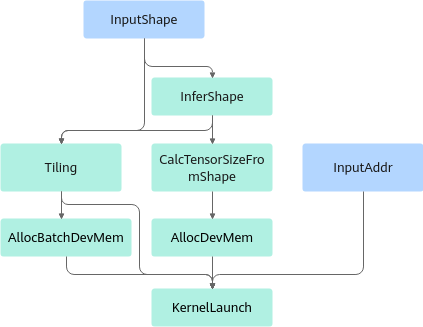
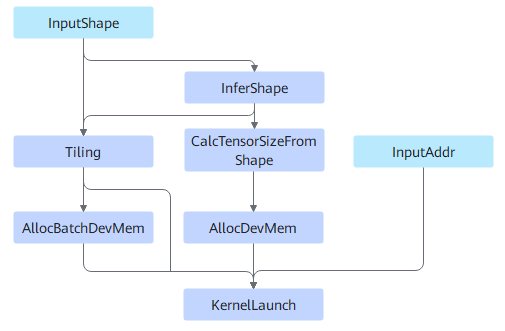
docs:执行图构图接口相关文档修改
# message auto-generated for no-merge-commit merge:
!6046 merge docs_execute_graph_api_1119 into develop

docs:执行图构图接口相关文档修改

Created-by: autumn982
Commit-by: qiuruijun
Merged-by: cann-robot
Description: # Pull Request

## 描述
本 PR 为执行图构图接口文档（`docs:执行图构图相关文档补充`，已合入 develop）的检视意见修复，共 36 个文件（+40/-41，含配图替换 1 张），全部位于 `docs/zh`，不涉及任何代码变更：

### 1. kind参数说明统一（4篇）
`EsCreateGraphBuilderWithKind`、`Graph`构造函数、`EsCGraphBuilder`构造函数、`EsGraphBuilder`构造函数的`kind`参数说明统一为：「图后端类别，取值为[C_GraphKind](https://gitcode.com/cann/metadef/blob/master/docs/zh/api/c_api/C_GraphKind.md)枚举（`ge::GraphKind`为其别名）：`C_GRAPH_COMPUTE`（计算图，取值为0）、`C_GRAPH_EXECUTE`（执行图，取值为1）」。消除原先「图类别/图后端类别」「按整型直传/取值为」「即…枚举/为其别名」等不一致表述，保留`ge::GraphKind`别名说明；删除本地头文件路径表述（「定义于`graph/c_types.h`头文件」），改为`C_GraphKind`枚举名直接链接metadef仓枚举文档；删除调用示例中路径错误的`#include "c_types.h"`（`esb_funcs.h`已传递包含，无需单独引入）。

### 2. type参数取值补全（4篇）
`EsCreateGraphInputWithDetails`、`AddGraphInput`、`AppendGraphInput`、`CreateInput`的`type`参数补充取值枚举：计算图类别下支持Data、RefData、AippData、AnyData（对应`kDataOpSet`校验）；执行图类别下支持Data、AippData、ConstData（对应`gert::IsTypeGraphInput`校验）；为空默认Data。

### 3. 约束说明格式统一（29篇）
「约束说明」仅一条时不使用列表符号，统一为段落文本；多条约束保持列表不变。覆盖Graph接口（`AddSubGraph`、`ConstructFromInputs`、`Dump`、`DumpToFile`、`FindOpByType`）、ES C接口（`EsBuildGraphAndReset`、`EsCreateVariable`、`EsCreateGraphInputWithDetails`、`EsSet*`×4）、ES C++接口（`AddGraphInput`、`AppendGraphInput`、`BuildAndReset`、`CreateInput`、`CreateVariable`、`EsCTensorHolder`/`EsTensorHolder`的`Set*`写接口×12）。

### 4. 措辞修正
[…]

diff --git a/docs/zh/user_guides/graph_dev/overview/concepts_and_principles.md b/docs/zh/user_guides/graph_dev/overview/concepts_and_principles.md
@@ -95,7 +95,7 @@ GE中的图按所处阶段和表达内容的不同，分为计算图（ComputeGr
 - **计算图（ComputeGraph）**：编译阶段看到的图，表达用户的逻辑计算语义，图中节点与用户构图时使用的算子一一对应，前文的图构建与图编译优化均基于计算图进行。
 - **执行图（ExecuteGraph）**：执行阶段看到的图。对于动态Shape模型，由于输入Tensor的Shape在执行时才能确定，无法在编译期完成整图的任务下发，GE在编译期通过Lowering机制将计算图转换为执行图。在动态Shape模型的执行图中，一个算子的下发被拆分为多个Host执行单元，每个执行单元称为Host Kernel，每个Host Kernel负责完成一项独立的运算或下发任务（如形状推导、Tiling计算、内存分配、算子下发等），执行图上的节点与Host Kernel一一对应。动态Shape模型在执行时，通过依次执行执行图上的Host Kernel完成整个图的下发。
 
-以一个单输入单输出AI Core算子为例，其在计算图与执行图中的表达如下图所示。计算图中，该算子对应一个AI Core节点；执行图中，该算子的下发被拆分为InferShape（形状推导）、Tiling（Tiling计算）、AllocMemHbm（Device内存分配）、Launch（算子下发）等多个Host Kernel，这些Host Kernel根据执行图上的顺序在Host侧依次执行。
+以一个单输入单输出AI Core算子为例，其对应的执行图如下图所示。在执行图中，该算子的下发被拆分为InferShape（形状推导）、Tiling（Tiling计算）、AllocMemHbm（Device内存分配）、Launch（算子下发）等多个Host Kernel，这些Host Kernel根据执行图上的顺序在Host侧依次执行。
 
 **图 3**  单输入单输出AI Core算子对应的执行图
 ![单输入单输出AI Core算子对应的执行图](../figures/execute_graph.png "单输入单输出AI Core算子对应的执行图")

diff --git a/docs/zh/api/graph_engine_api/cpp/ge/Graph/Graph_constructor_and_destructor.md b/docs/zh/api/graph_engine_api/cpp/ge/Graph/Graph_constructor_and_destructor.md
@@ -31,7 +31,7 @@ Graph()
 | 参数名 | 输入/输出 | 说明 |
 | --- | --- | --- |
 | name | 输入 | Graph名称，按照指定的名称构造Graph。 |
-| kind | 输入 | 图后端类别，取值为`C_GraphKind`枚举（定义于`graph/c_types.h`头文件，`ge::GraphKind`为其别名）：`C_GRAPH_COMPUTE`（计算图，取值为0）、`C_GRAPH_EXECUTE`（执行图，取值为1）。 |
+| kind | 输入 | 图后端类别，取值为[C\_GraphKind](https://gitcode.com/cann/metadef/blob/master/docs/zh/api/c_api/C_GraphKind.md)枚举（`ge::GraphKind`为其别名）：`C_GRAPH_COMPUTE`（计算图，取值为0）、`C_GRAPH_EXECUTE`（执行图，取值为1）。 |
 
 ## 返回值说明
 
@@ -42,4 +42,4 @@ Graph构造函数返回Graph类型的对象。
 - 图类别在构造期固定，Graph对象生命周期内不可变更。
 - 双参构造接口中，`name`为空指针或`kind`为非法取值（非`C_GRAPH_COMPUTE`、`C_GRAPH_EXECUTE`）时，构造出的Graph对象非法，即[IsValid](IsValid.md)返回false。
 - 按名称构造的接口（`Graph(name)`）默认创建计算图。
-- 以执行图类别构造的Graph对象，部分门面接口不支持（如[SetTargets](SetTargets.md)、[AddOp](AddOp.md)、序列化保存/加载等），详见对应接口的约束说明。
+- 以执行图类别构造的Graph对象，部分接口不支持（如[SetTargets](SetTargets.md)、[AddOp](AddOp.md)、序列化保存/加载等），详见对应接口的约束说明。

diff --git a/docs/zh/api/graph_engine_api/c/esb_funcs/EsCreateGraphInputWithDetails.md b/docs/zh/api/graph_engine_api/c/esb_funcs/EsCreateGraphInputWithDetails.md
@@ -26,7 +26,7 @@ EsCTensorHolder *EsCreateGraphInputWithDetails(EsCGraphBuilder *graph, int64_t i
 | graph | 输入 | 图构建器指针。 |
 | index | 输入 | 第几个图的输入，从0开始计数。 |
 | name | 输入 | 输入的名字，如果为空则默认为input_{index}。 |
-| type | 输入 | 输入的类型，如果为空则默认为Data。 |
+| type | 输入 | 输入的类型，如果为空则默认为Data。取值：计算图类别下支持Data、RefData、AippData、AnyData；执行图类别下支持Data、AippData、ConstData。 |
 | data_type | 输入 | 数据类型。 |
 | format | 输入 | 格式类型。 |
 | shape | 输入 | shape信息，shape如果为空则为标量。 |
@@ -40,7 +40,7 @@ EsCTensorHolder *EsCreateGraphInputWithDetails(EsCGraphBuilder *graph, int64_t i
 
 ## 约束说明
 
-- 当图构建器以执行图类别创建（[EsCreateGraphBuilderWithKind](EsCreateGraphBuilderWithKind.md)中`kind`为`C_GRAPH_EXECUTE`）时，输入类型`type`仅支持Data、AippData、ConstData三种。
+当图构建器以执行图类别创建（[EsCreateGraphBuilderWithKind](EsCreateGraphBuilderWithKind.md)中`kind`为`C_GRAPH_EXECUTE`）时，输入类型`type`仅支持Data、AippData、ConstData三种。
 
 ## 调用示例
 

diff --git a/docs/zh/api/graph_engine_api/cpp/ge/es/EsCGraphBuilder/AddGraphInput.md b/docs/zh/api/graph_engine_api/cpp/ge/es/EsCGraphBuilder/AddGraphInput.md
@@ -25,7 +25,7 @@ EsCTensorHolder *AddGraphInput(int32_t index, const ge::char_t *name = nullptr, 
 | --- | --- | --- |
 | index | 输入 | 输入索引位置。 |
 | name | 输入 | 输入名称，可选。 |
-| type | 输入 | 输入类型，可选。 |
+| type | 输入 | 输入类型，可选，如果为空则默认为Data。取值：计算图类别下支持Data、RefData、AippData、AnyData；执行图类别下支持Data、AippData、ConstData。 |
 | data_type | 输入 | 数据类型，默认为C_DT_FLOAT。 |
 | format | 输入 | 数据格式，默认为C_FORMAT_ND。 |
 | dims | 输入 | 维度数组，可选。 |
@@ -39,4 +39,4 @@ EsCTensorHolder *AddGraphInput(int32_t index, const ge::char_t *name = nullptr, 
 
 ## 约束说明
 
-- 当构建器以执行图类别创建（[EsCGraphBuilder](EsCGraphBuilder_constructor_and_destructor.md)构造时`kind`为`C_GRAPH_EXECUTE`）时，输入类型`type`仅支持Data、AippData、ConstData三种。
+当构建器以执行图类别创建（[EsCGraphBuilder](EsCGraphBuilder_constructor_and_destructor.md)构造时`kind`为`C_GRAPH_EXECUTE`）时，输入类型`type`仅支持Data、AippData、ConstData三种。

diff --git a/docs/zh/api/graph_engine_api/cpp/ge/es/EsGraphBuilder/CreateInput.md b/docs/zh/api/graph_engine_api/cpp/ge/es/EsGraphBuilder/CreateInput.md
@@ -45,7 +45,7 @@
 | --- | --- | --- |
 | index | 输入 | 输入节点的索引，从0开始计数。 |
 | name | 输入 | 输入节点的名称，如果为nullptr则使用默认名称input_{index}。 |
-| type | 输入 | 输入节点的类型字符串，如果为nullptr则默认为Data。 |
+| type | 输入 | 输入节点的类型字符串，如果为nullptr则默认为Data。取值：计算图类别下支持Data、RefData、AippData、AnyData；执行图类别下支持Data、AippData、ConstData。 |
 | format | 输入 | 张量格式。 |
 | data_type | 输入 | 数据类型。 |
 | shape | 输入 | 张量形状向量，如果为空则创建标量。 |
@@ -58,7 +58,7 @@
 
 ## 约束说明
 
-- 当图构建器以执行图类别创建（[EsGraphBuilder](EsGraphBuilder_constructor.md)构造时`kind`为`C_GRAPH_EXECUTE`）时，输入类型`type`仅支持Data、AippData、ConstData三种。
+当图构建器以执行图类别创建（[EsGraphBuilder](EsGraphBuilder_constructor.md)构造时`kind`为`C_GRAPH_EXECUTE`）时，输入类型`type`仅支持Data、AippData、ConstData三种。
 
 ## 调用示例
 

diff --git a/docs/zh/api/graph_engine_api/c/esb_funcs/EsCreateGraphBuilderWithKind.md b/docs/zh/api/graph_engine_api/c/esb_funcs/EsCreateGraphBuilderWithKind.md
@@ -24,7 +24,7 @@ EsCGraphBuilder *EsCreateGraphBuilderWithKind(const char *name, int32_t kind)
 | 参数名 | 输入/输出 | 说明 |
 | --- | --- | --- |
 | name | 输入 | 可选，图的名字，如果为空则默认为"graph"。 |
-| kind | 输入 | 图类别，按整型直传`C_GraphKind`枚举取值（定义于`graph/c_types.h`头文件）：`C_GRAPH_COMPUTE`为计算图，`C_GRAPH_EXECUTE`为执行图。 |
+| kind | 输入 | 图后端类别，取值为[C\_GraphKind](https://gitcode.com/cann/metadef/blob/master/docs/zh/api/c_api/C_GraphKind.md)枚举（`ge::GraphKind`为其别名）：`C_GRAPH_COMPUTE`（计算图，取值为0）、`C_GRAPH_EXECUTE`（执行图，取值为1）。 |
 
 ## 返回值说明
 
@@ -41,7 +41,6 @@ EsCGraphBuilder *EsCreateGraphBuilderWithKind(const char *name, int32_t kind)
 ## 调用示例
 
 ```c
-#include "c_types.h" // 包含C_GraphKind枚举定义
 // 创建执行图类别的图构建器
 EsCGraphBuilder *builder = EsCreateGraphBuilderWithKind("graph_name", C_GRAPH_EXECUTE);
 ```

diff --git a/docs/zh/api/graph_engine_api/cpp/ge/es/EsCGraphBuilder/AppendGraphInput.md b/docs/zh/api/graph_engine_api/cpp/ge/es/EsCGraphBuilder/AppendGraphInput.md
@@ -24,7 +24,7 @@ EsCTensorHolder *AppendGraphInput(const ge::char_t *name = nullptr, const ge::ch
 | 参数名 | 输入/输出 | 说明 |
 | --- | --- | --- |
 | name | 输入 | 输入名称，可选。 |
-| type | 输入 | 输入类型，可选。 |
+| type | 输入 | 输入类型，可选，如果为空则默认为Data。取值：计算图类别下支持Data、RefData、AippData、AnyData；执行图类别下支持Data、AippData、ConstData。 |
 
 ## 返回值说明
 
@@ -34,4 +34,4 @@ EsCTensorHolder *AppendGraphInput(const ge::char_t *name = nullptr, const ge::ch
 
 ## 约束说明
 
-- 当构建器以执行图类别创建（[EsCGraphBuilder](EsCGraphBuilder_constructor_and_destructor.md)构造时`kind`为`C_GRAPH_EXECUTE`）时，输入类型`type`仅支持Data、AippData、ConstData三种。
+当构建器以执行图类别创建（[EsCGraphBuilder](EsCGraphBuilder_constructor_and_destructor.md)构造时`kind`为`C_GRAPH_EXECUTE`）时，输入类型`type`仅支持Data、AippData、ConstData三种。

diff --git a/docs/zh/api/graph_engine_api/cpp/ge/Graph/AddOp.md b/docs/zh/api/graph_engine_api/cpp/ge/Graph/AddOp.md
@@ -33,5 +33,5 @@ graphStatus AddOp(const ge::Operator &op)
 
 ## 约束说明
 
-- 此接口为非必须接口。主要用于用户在多个函数间切换时，operator对象可能因为是局部变量而无法被多个函数获取，此时operator可以注册在graph中，通过graph获取先前创建的operator对象，但注册到graph后，此operator对象除非graph销毁，否则一直存在。
+- 此接口为非必须接口，主要用于跨函数共享Operator对象：用户在多个函数间切换构图时，Operator对象可能因作为某个函数的局部变量而无法被其他函数访问，此时可将Operator注册到Graph中，其他函数再通过Graph获取先前创建的Operator对象。Operator一经注册即由Graph持有，在Graph销毁前会一直存在。
 - 仅计算图支持该接口：当Graph以执行图类别构造（`Graph(name, C_GRAPH_EXECUTE)`）时，调用该接口返回GRAPH_FAILED，并上报错误码E18888。

diff --git a/docs/zh/api/graph_engine_api/cpp/ge/es/EsGraphBuilder/EsGraphBuilder_constructor.md b/docs/zh/api/graph_engine_api/cpp/ge/es/EsGraphBuilder/EsGraphBuilder_constructor.md
@@ -25,7 +25,7 @@ EsGraphBuilder(const char *name, GraphKind kind) : graph_builder_(EsCreateGraphB
 | 参数名 | 输入/输出 | 说明 |
 | --- | --- | --- |
 | name | 输入 | 构建的图名称，如果为nullptr则使用默认名称"graph"。 |
-| kind | 输入 | 图后端类别，取值为`GraphKind`（即`C_GraphKind`枚举，定义于`graph/c_types.h`头文件）：`C_GRAPH_COMPUTE`（计算图）、`C_GRAPH_EXECUTE`（执行图）。 |
+| kind | 输入 | 图后端类别，取值为[C\_GraphKind](https://gitcode.com/cann/metadef/blob/master/docs/zh/api/c_api/C_GraphKind.md)枚举（`ge::GraphKind`为其别名）：`C_GRAPH_COMPUTE`（计算图，取值为0）、`C_GRAPH_EXECUTE`（执行图，取值为1）。 |
 
 ## 返回值说明
 

diff --git a/docs/zh/api/graph_engine_api/cpp/ge/es/EsCGraphBuilder/EsCGraphBuilder_constructor_and_destructor.md b/docs/zh/api/graph_engine_api/cpp/ge/es/EsCGraphBuilder/EsCGraphBuilder_constructor_and_destructor.md
@@ -29,7 +29,7 @@ EsCGraphBuilder &operator=(EsCGraphBuilder &&) noexcept
 | 参数名 | 输入/输出 | 说明 |
 | --- | --- | --- |
 | name | 输入 | 图名称，按照指定的名称构造图构建器。 |
-| kind | 输入 | 图后端类别，取值为`ge::GraphKind`（即`C_GraphKind`枚举，定义于`graph/c_types.h`头文件）：`C_GRAPH_COMPUTE`（计算图）、`C_GRAPH_EXECUTE`（执行图）。 |
+| kind | 输入 | 图后端类别，取值为[C\_GraphKind](https://gitcode.com/cann/metadef/blob/master/docs/zh/api/c_api/C_GraphKind.md)枚举（`ge::GraphKind`为其别名）：`C_GRAPH_COMPUTE`（计算图，取值为0）、`C_GRAPH_EXECUTE`（执行图，取值为1）。 |
 
 ## 返回值说明
 

diff --git a/docs/zh/api/graph_engine_api/c/esb_funcs/EsBuildGraphAndReset.md b/docs/zh/api/graph_engine_api/c/esb_funcs/EsBuildGraphAndReset.md
@@ -33,7 +33,7 @@ EsCGraph *EsBuildGraphAndReset(EsCGraphBuilder *graph)
 
 ## 约束说明
 
-- 图构建器以执行图类别创建（[EsCreateGraphBuilderWithKind](EsCreateGraphBuilderWithKind.md)中`kind`为`C_GRAPH_EXECUTE`）时，本接口构建并返回执行图类别的ge::Graph对象，图类别与构建器类别一致；执行图类别下不执行计算图归一化。
+图构建器以执行图类别创建（[EsCreateGraphBuilderWithKind](EsCreateGraphBuilderWithKind.md)中`kind`为`C_GRAPH_EXECUTE`）时，本接口构建并返回执行图类别的ge::Graph对象，图类别与构建器类别一致；执行图类别下不执行计算图归一化。
 
 ## 调用示例
 

diff --git a/docs/zh/api/graph_engine_api/cpp/ge/es/EsCTensorHolder/SetOriginSymbolShape.md b/docs/zh/api/graph_engine_api/cpp/ge/es/EsCTensorHolder/SetOriginSymbolShape.md
@@ -34,4 +34,4 @@ ge::Status SetOriginSymbolShape(const char *const *shape_str, const int64_t shap
 
 ## 约束说明
 
-- 仅计算图支持该接口：当张量所属的图构建器以执行图类别创建（[EsCGraphBuilder](../EsCGraphBuilder/EsCGraphBuilder_constructor_and_destructor.md)构造时`kind`为`C_GRAPH_EXECUTE`）时，调用该接口失败，并上报错误码E10062。
+仅计算图支持该接口：当张量所属的图构建器以执行图类别创建（[EsCGraphBuilder](../EsCGraphBuilder/EsCGraphBuilder_constructor_and_destructor.md)构造时`kind`为`C_GRAPH_EXECUTE`）时，调用该接口失败，并上报错误码E10062。
